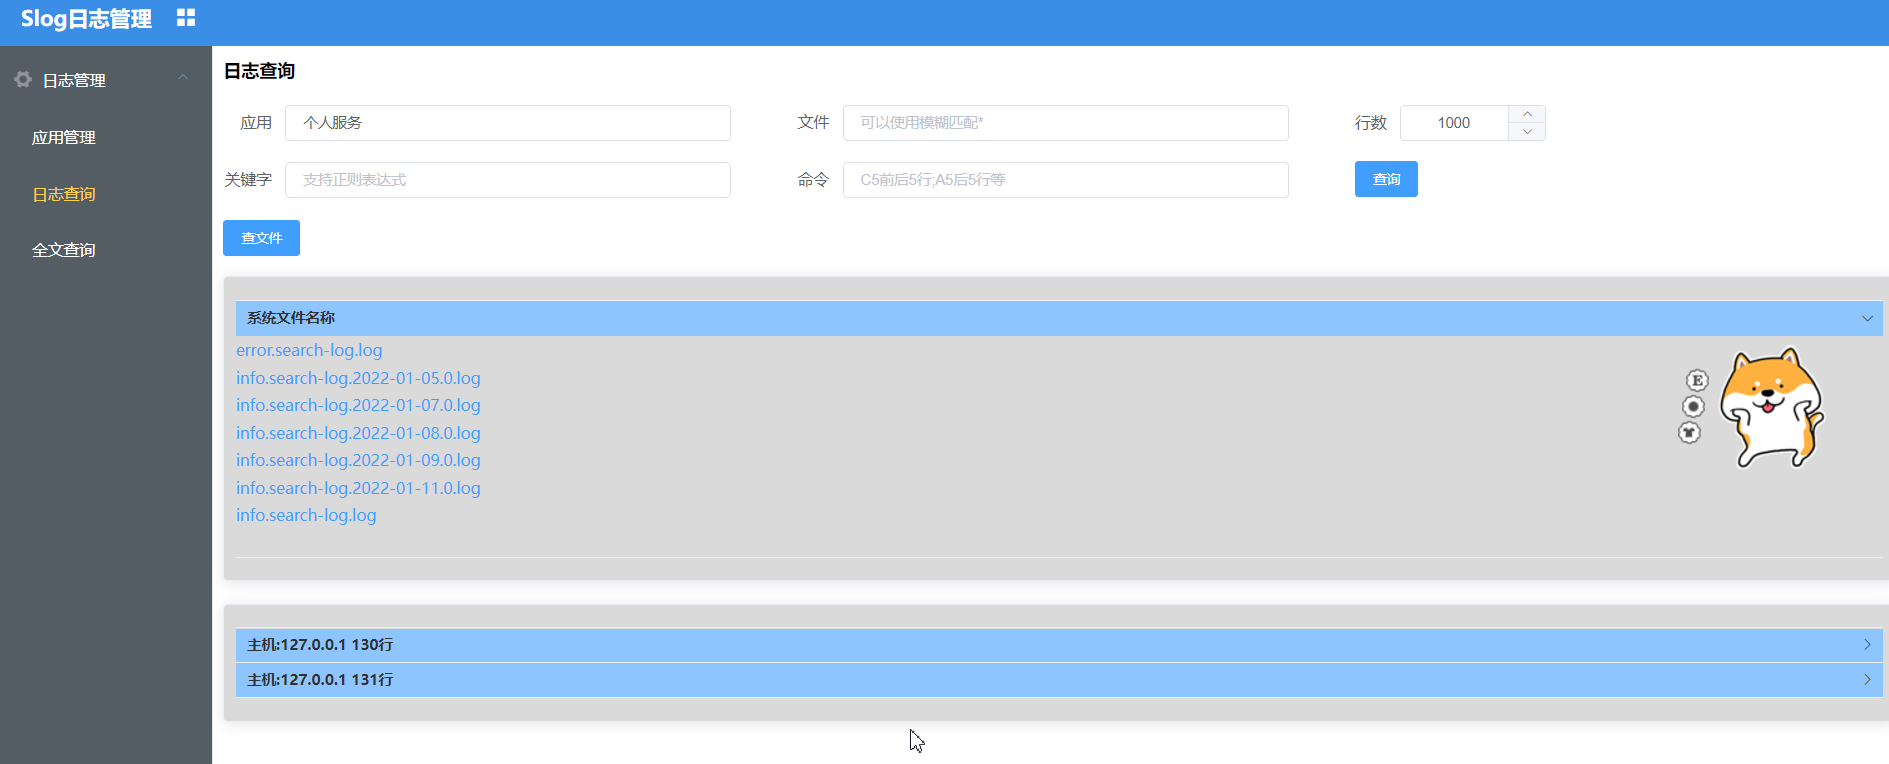
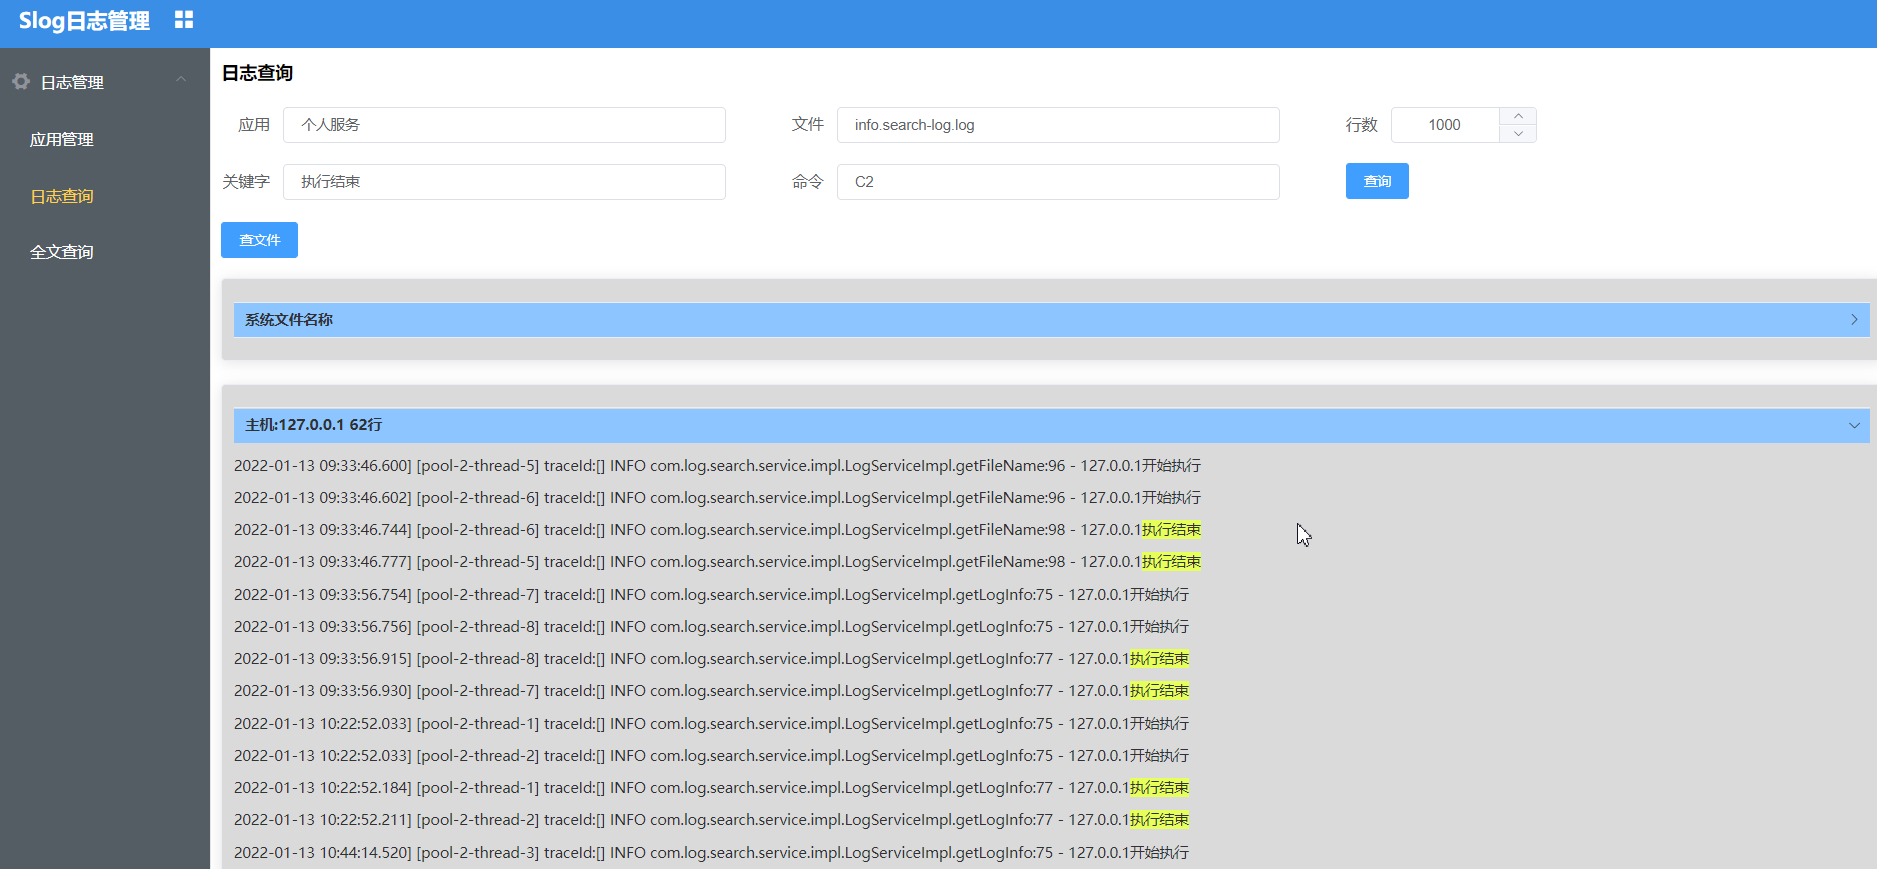
Slog首次提交

diff --git a/README.md b/README.md
@@ -63,11 +63,15 @@ linux查询文件查询行数太多，很难找自己想找的东西，而且服
 
 ![image-20211227213922298](README.assets/image-20211227213922298.png)
 
-查询文件：
+选择服务->查询文件：
 
 ![image-20211227214055143](README.assets/image-20211227214055143.png)
 
-查询日志：
+点击文件->查询日志：
+文件名称：info.search-log.log
+关键词：执行结束
+命令：C2
+
 
 ![image-20211227214125935](README.assets/image-20211227214125935.jpg)
 
